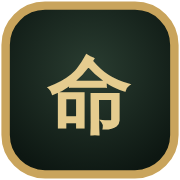
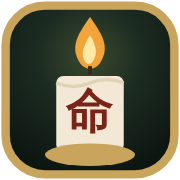
分頁圖示改為蠟燭造型，各館在燭身上標示館別
Claude-Session: https://claude.ai/code/session_018Pf2fn9zFBXgh9Z1QTCV4z

Changed region(s): [[0.25, 0.0833, 0.75, 0.9444]]

diff --git a/index.html b/index.html
@@ -2,9 +2,9 @@
 <html lang="zh-Hant">
 <meta charset="utf-8">
 <title>燭光 · La Lumière des Chandelles</title>
-<link rel="icon" href="icons/index.svg" type="image/svg+xml">
-<link rel="icon" href="icons/index-32.png" sizes="32x32">
-<link rel="apple-touch-icon" href="icons/index-180.png">
+<link rel="icon" href="icons/index.svg?v=2" type="image/svg+xml">
+<link rel="icon" href="icons/index-32.png?v=2" sizes="32x32">
+<link rel="apple-touch-icon" href="icons/index-180.png?v=2">
 <meta name="viewport" content="width=device-width, initial-scale=1">
 <meta name="description" content="燭光——點一支蠟燭，走進十一館：牌桌、象棋、占星、八字、式占、南洋、開卷、鐘樓、鏡廳與三術合參。">
 <link rel="preconnect" href="https://fonts.googleapis.com">

diff --git a/kaijuan.html b/kaijuan.html
@@ -1,9 +1,9 @@
 <!doctype html>
 <html lang="zh-Hant">
 <title>燭光卷樓 · 開卷館</title>
-<link rel="icon" href="icons/kaijuan.svg" type="image/svg+xml">
-<link rel="icon" href="icons/kaijuan-32.png" sizes="32x32">
-<link rel="apple-touch-icon" href="icons/kaijuan-180.png">
+<link rel="icon" href="icons/kaijuan.svg?v=2" type="image/svg+xml">
+<link rel="icon" href="icons/kaijuan-32.png?v=2" sizes="32x32">
+<link rel="apple-touch-icon" href="icons/kaijuan-180.png?v=2">
 <meta charset="utf-8">
 <meta name="viewport" content="width=device-width, initial-scale=1">
 <link rel="stylesheet" href="hall.css?v=2026102503">

diff --git a/nanyang.html b/nanyang.html
@@ -1,9 +1,9 @@
 <!doctype html>
 <html lang="zh-Hant">
 <title>燭光南苑 · 南洋館</title>
-<link rel="icon" href="icons/nanyang.svg" type="image/svg+xml">
-<link rel="icon" href="icons/nanyang-32.png" sizes="32x32">
-<link rel="apple-touch-icon" href="icons/nanyang-180.png">
+<link rel="icon" href="icons/nanyang.svg?v=2" type="image/svg+xml">
+<link rel="icon" href="icons/nanyang-32.png?v=2" sizes="32x32">
+<link rel="apple-touch-icon" href="icons/nanyang-180.png?v=2">
 <meta charset="utf-8">
 <meta name="viewport" content="width=device-width, initial-scale=1">
 <link rel="stylesheet" href="hall.css?v=2026102503">

diff --git a/xiangqi.html b/xiangqi.html
@@ -1,9 +1,9 @@
 <!doctype html>
 <html lang="zh-Hant">
 <title>燭光棋閣 · 象棋館</title>
-<link rel="icon" href="icons/xiangqi.svg" type="image/svg+xml">
-<link rel="icon" href="icons/xiangqi-32.png" sizes="32x32">
-<link rel="apple-touch-icon" href="icons/xiangqi-180.png">
+<link rel="icon" href="icons/xiangqi.svg?v=2" type="image/svg+xml">
+<link rel="icon" href="icons/xiangqi-32.png?v=2" sizes="32x32">
+<link rel="apple-touch-icon" href="icons/xiangqi-180.png?v=2">
 <meta charset="utf-8">
 <meta name="viewport" content="width=device-width, initial-scale=1">
 <link rel="stylesheet" href="hall.css?v=2026102503">

diff --git a/shilun.html b/shilun.html
@@ -1,9 +1,9 @@
 <!doctype html>
 <html lang="zh-Hant">
 <title>燭光鐘樓 · 鐘樓館</title>
-<link rel="icon" href="icons/shilun.svg" type="image/svg+xml">
-<link rel="icon" href="icons/shilun-32.png" sizes="32x32">
-<link rel="apple-touch-icon" href="icons/shilun-180.png">
+<link rel="icon" href="icons/shilun.svg?v=2" type="image/svg+xml">
+<link rel="icon" href="icons/shilun-32.png?v=2" sizes="32x32">
+<link rel="apple-touch-icon" href="icons/shilun-180.png?v=2">
 <meta charset="utf-8">
 <meta name="viewport" content="width=device-width, initial-scale=1">
 <link rel="stylesheet" href="hall.css?v=2026102503">

diff --git a/astro.html b/astro.html
@@ -1,9 +1,9 @@
 <!doctype html>
 <html lang="zh-Hant">
 <title>燭光星壇 · 占星館</title>
-<link rel="icon" href="icons/astro.svg" type="image/svg+xml">
-<link rel="icon" href="icons/astro-32.png" sizes="32x32">
-<link rel="apple-touch-icon" href="icons/astro-180.png">
+<link rel="icon" href="icons/astro.svg?v=2" type="image/svg+xml">
+<link rel="icon" href="icons/astro-32.png?v=2" sizes="32x32">
+<link rel="apple-touch-icon" href="icons/astro-180.png?v=2">
 <meta charset="utf-8">
 <meta name="viewport" content="width=device-width, initial-scale=1">
 <link rel="stylesheet" href="hall.css?v=2026102503">

diff --git a/numbers.html b/numbers.html
@@ -1,9 +1,9 @@
 <!doctype html>
 <html lang="zh-Hant">
 <title>燭光數房 · 已併館</title>
-<link rel="icon" href="icons/index.svg" type="image/svg+xml">
-<link rel="icon" href="icons/index-32.png" sizes="32x32">
-<link rel="apple-touch-icon" href="icons/index-180.png">
+<link rel="icon" href="icons/index.svg?v=2" type="image/svg+xml">
+<link rel="icon" href="icons/index-32.png?v=2" sizes="32x32">
+<link rel="apple-touch-icon" href="icons/index-180.png?v=2">
 <meta charset="utf-8">
 <meta name="viewport" content="width=device-width, initial-scale=1">
 <link rel="stylesheet" href="hall.css?v=2026102503">

diff --git a/bazi.html b/bazi.html
@@ -1,9 +1,9 @@
 <!doctype html>
 <html lang="zh-Hant">
 <title>燭光命房 · 八字館</title>
-<link rel="icon" href="icons/bazi.svg" type="image/svg+xml">
-<link rel="icon" href="icons/bazi-32.png" sizes="32x32">
-<link rel="apple-touch-icon" href="icons/bazi-180.png">
+<link rel="icon" href="icons/bazi.svg?v=2" type="image/svg+xml">
+<link rel="icon" href="icons/bazi-32.png?v=2" sizes="32x32">
+<link rel="apple-touch-icon" href="icons/bazi-180.png?v=2">
 <meta charset="utf-8">
 <meta name="viewport" content="width=device-width, initial-scale=1">
 <link rel="stylesheet" href="hall.css?v=2026102503">

diff --git a/mbti.html b/mbti.html
@@ -1,9 +1,9 @@
 <!doctype html>
 <html lang="zh-Hant">
 <title>燭光鏡廳 · MBTI</title>
-<link rel="icon" href="icons/mbti.svg" type="image/svg+xml">
-<link rel="icon" href="icons/mbti-32.png" sizes="32x32">
-<link rel="apple-touch-icon" href="icons/mbti-180.png">
+<link rel="icon" href="icons/mbti.svg?v=2" type="image/svg+xml">
+<link rel="icon" href="icons/mbti-32.png?v=2" sizes="32x32">
+<link rel="apple-touch-icon" href="icons/mbti-180.png?v=2">
 <meta charset="utf-8">
 <meta name="viewport" content="width=device-width, initial-scale=1">
 <link rel="stylesheet" href="hall.css?v=2026102503">

diff --git a/shi.html b/shi.html
@@ -1,9 +1,9 @@
 <!doctype html>
 <html lang="zh-Hant">
 <title>燭光式閣 · 式占館</title>
-<link rel="icon" href="icons/shi.svg" type="image/svg+xml">
-<link rel="icon" href="icons/shi-32.png" sizes="32x32">
-<link rel="apple-touch-icon" href="icons/shi-180.png">
+<link rel="icon" href="icons/shi.svg?v=2" type="image/svg+xml">
+<link rel="icon" href="icons/shi-32.png?v=2" sizes="32x32">
+<link rel="apple-touch-icon" href="icons/shi-180.png?v=2">
 <meta charset="utf-8">
 <meta name="viewport" content="width=device-width, initial-scale=1">
 <link rel="stylesheet" href="hall.css?v=2026102503">

diff --git a/mix.html b/mix.html
@@ -1,9 +1,9 @@
 <!doctype html>
 <html lang="zh-Hant">
 <title>燭光合參 · MIX</title>
-<link rel="icon" href="icons/mix.svg" type="image/svg+xml">
-<link rel="icon" href="icons/mix-32.png" sizes="32x32">
-<link rel="apple-touch-icon" href="icons/mix-180.png">
+<link rel="icon" href="icons/mix.svg?v=2" type="image/svg+xml">
+<link rel="icon" href="icons/mix-32.png?v=2" sizes="32x32">
+<link rel="apple-touch-icon" href="icons/mix-180.png?v=2">
 <meta charset="utf-8">
 <meta name="viewport" content="width=device-width, initial-scale=1">
 <link rel="stylesheet" href="hall.css?v=2026102503">

diff --git a/table.html b/table.html
@@ -2,9 +2,9 @@
 <html lang="zh-Hant">
 <meta charset="utf-8">
 <title>燭光牌桌 · La Table aux Chandelles</title>
-<link rel="icon" href="icons/table.svg" type="image/svg+xml">
-<link rel="icon" href="icons/table-32.png" sizes="32x32">
-<link rel="apple-touch-icon" href="icons/table-180.png">
+<link rel="icon" href="icons/table.svg?v=2" type="image/svg+xml">
+<link rel="icon" href="icons/table-32.png?v=2" sizes="32x32">
+<link rel="apple-touch-icon" href="icons/table-180.png?v=2">
 <meta name="viewport" content="width=device-width, initial-scale=1">
 <style>
   :root {
